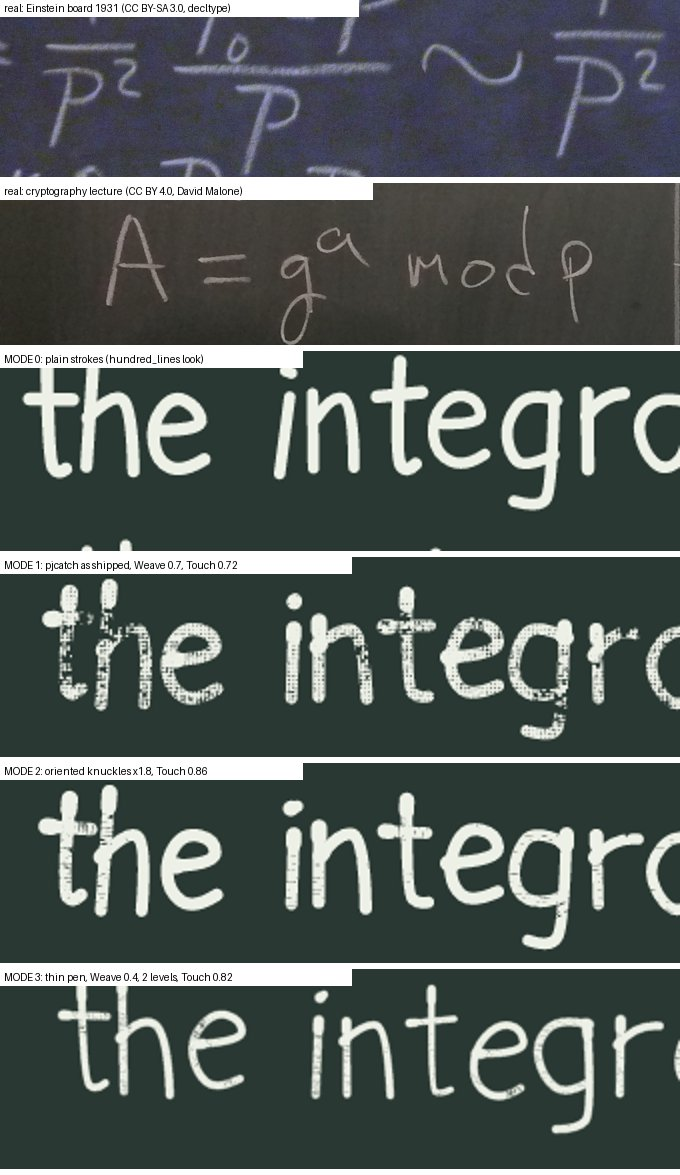
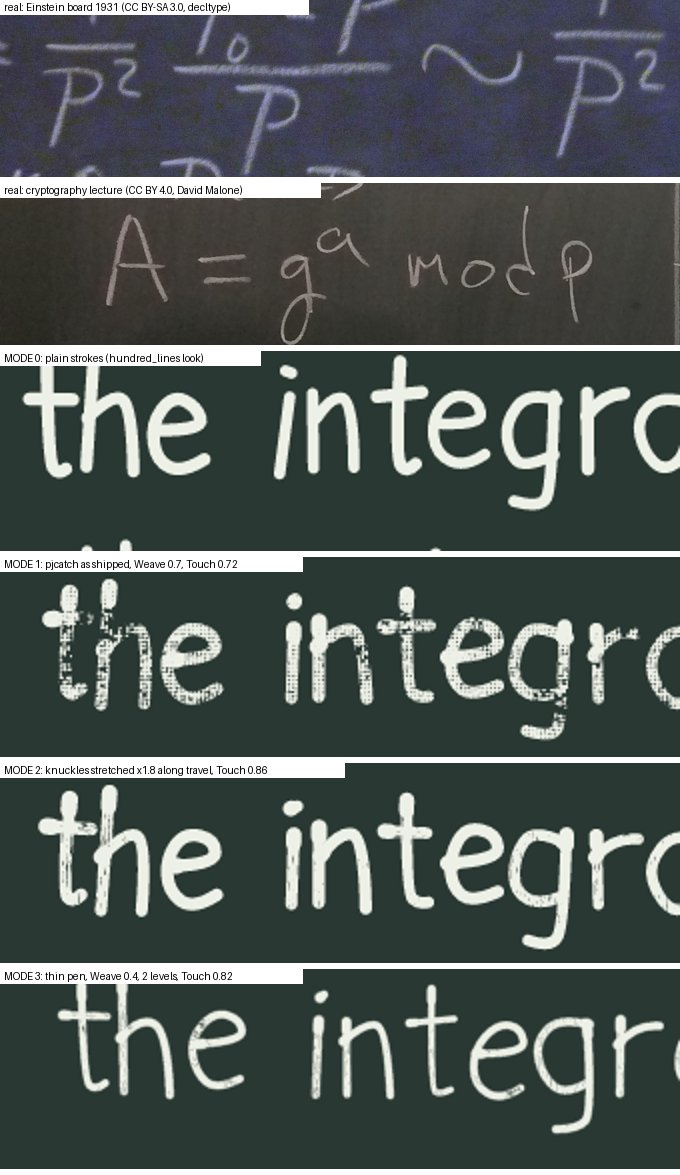
prototype dqcatch: keep direction components in order (Codex round 1); re-measure
The normalisation swapped ux and uy, so knuckles stretched across travel
instead of along it. Fixed, and every oriented measurement and panel
regenerated: phi 0.37-0.60 (mean 0.48) vs control mean 0.03, nesting
unchanged, cost unchanged within run-to-run noise.

Claude-Session: https://claude.ai/code/session_01GTbCLDB6QC7UV1i7qukUEL

diff --git a/docs/DRYMEDIA.md b/docs/DRYMEDIA.md
@@ -84,11 +84,11 @@ and one at 60°, each rendered alone, compared over their overlap at
 | Catch | phi between the two bands | control (second band, different seed) |
 |---|---|---|
 | `pjcatch` (isotropic) | 1.00 at every seed | 0.05 to 0.33 |
-| `dkcatch`, `/Streak 1.8` | 0.37 to 0.62 | -0.10 to 0.24 |
-| `dkcatch`, `/Streak 1.25` | 0.40 to 0.61 | (same controls) |
+| `dkcatch`, `/Streak 1.8` | 0.37 to 0.60 (mean 0.48) | -0.09 to 0.24 (mean 0.03) |
+| `dkcatch`, `/Streak 1.25` | 0.40 to 0.60 (mean 0.51) | -0.10 to 0.21 (mean 0.03) |
 
 Orientation, not stretch, lowers the correlation: even 1.25 barely moves it.
-The tooth is still clearly shared (about 0.5 against about 0.05), but #182's
+The tooth is still clearly shared (a mean of about 0.5 against about 0.03), but #182's
 bar of phi > 0.5 at *every* seed is too strict for oriented catches. #234's
 "shared surface" acceptance should be: mean phi over five seeds ≥ 0.4, and at
 least 0.25 above the control's mean (open question Q4).
@@ -366,15 +366,15 @@ and a gallery ticket, as the epic already plans.
 `prototypes/surface_cost.ps` renders a full 720 × 480 board: 12 lines of
 handscript skeletons, about 600 glyphs, 1980 glyph strokes, each with a body
 and a landing dab. Times are CPU (`user`) on the release pscat and gs
-10.07.1. Wall time was unreliable under the machine's load average of about
-8:
+10.07.1, as the range over two runs. Wall time was unreliable under the
+machine's load average of about 8:
 
 | Case | Catches | Cells visited | pscat | gs |
 |---|---|---|---|---|
 | plain strokes (no catch) | 0 | 0 | 0.03s | 0.04s |
 | `pjcatch`, `/Weave 0.7` | 1984 | 388k | 4.2s | 2.3s |
-| oriented `dqcatch`, `/Weave 0.7` | 1984 | 388k | 8.5s | 4.0s |
-| oriented, `/Weave 0.4`, thin pen, 2 levels | 3928 | 1.59M | 28.1s | 15.1s |
+| oriented `dqcatch`, `/Weave 0.7` | 1984 | 388k | 8.5s | 4.0–4.9s |
+| oriented, `/Weave 0.4`, thin pen, 2 levels | 3928 | 1.59M | 28.1–35.7s | 15.1–16.7s |
 
 That works out to about 11 µs per cell for the isotropic catch and about
 22 µs per cell oriented. The difference is the rotated-ellipse arithmetic.
@@ -384,7 +384,7 @@ last row is 553k cells, about 2.9× fewer. That suggests about 10s in pscat
 and 5s in gs for the core on a full board.
 
 **That figure is an estimate.** The swept-band catch hasn't been built. The
-measured bounding-box cost (28s) is already at the board budget before any
+measured bounding-box cost (28–36s) is already at the board budget before any
 board dressing, and ghost text is roughly a second board of glyphs at low
 strength. So part of D1's acceptance is to build the swept-band catch,
 measure it on this board, and report the result against 6.2 before D2
@@ -403,7 +403,7 @@ Two things scale beyond that:
 
 | Piece | pscat (release, 2x) | gs | Basis |
 |---|---|---|---|
-| full chalkboard (#238) | ≤ 30s | ≤ 30s | measured 28s with bbox catches; ~10s estimated with swept band; board dressing and ghost text on top |
+| full chalkboard (#238) | ≤ 30s | ≤ 30s | measured 28–36s with bbox catches; ~10s estimated with swept band; board dressing and ghost text on top |
 | full portrait (#242) | ≤ 60s | ≤ 60s | ~3000 hatch strokes × 2 levels, plus smudges; about 2× the board in cells |
 | child's drawing (#240) | ≤ 20s | ≤ 20s | fewer, larger strokes at coarser `/Weave` (0.9) |
 | each specimen in `examples/` | ≤ 10s | ≤ 10s | specimens are smaller than pieces |
@@ -437,7 +437,8 @@ They read paintkit's internals and change nothing in it.
   `chalk_compare.jpg` compares all four with two real chalk crops.
   - The plain stroke reads as a font.
   - `pjcatch` reads as a perforated screen.
-  - Oriented knuckles read as scratchy streaks along each stroke.
+  - Oriented knuckles read as mostly solid strokes, with fine streaks
+    along the travel direction and ragged edges.
   - Thin pen, fine tooth and two levels comes closest. It is still too
     bright, too even and too clean against C1 and C3.
 - **`dqcatch.ps`** is the oriented emitter (2.1), as a stand-alone file.
